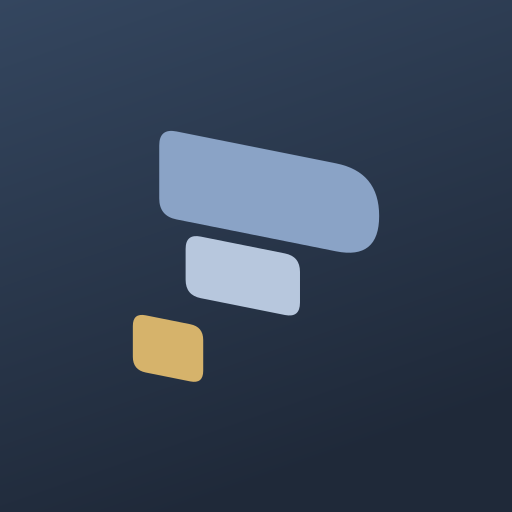
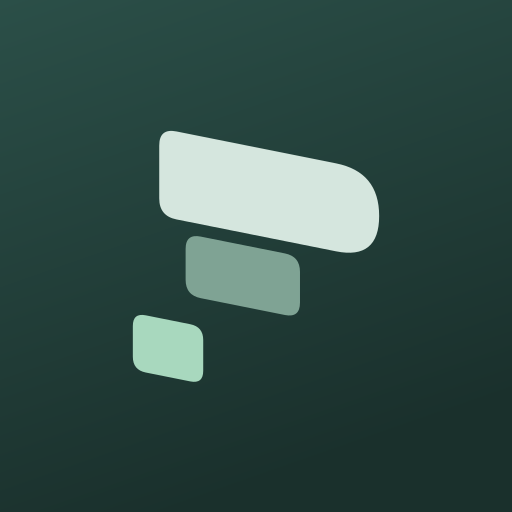
Green colours, as in the app
The page leaves blue and gold for the app's greens: a deep spruce to act, sage for logged time
and a pale green for time that is sure, on an off-white page with graphite ink, and a dim
graphite in the dark. The icons and the picture for shared links follow.

Claude-Session: https://claude.ai/code/session_01PKkv8NjNLMGLj8BPouAukG

Changed region(s): [[0.3125, 0.25, 0.75, 0.625], [0.25, 0.5938, 0.4062, 0.75]]

diff --git a/index.html b/index.html
@@ -9,8 +9,8 @@
 <link rel="icon" href="favicon.svg" type="image/svg+xml">
 <link rel="apple-touch-icon" href="apple-touch-icon.png">
 <link rel="manifest" href="site.webmanifest">
-<meta name="theme-color" content="#f7f8f9" media="(prefers-color-scheme: light)">
-<meta name="theme-color" content="#1c2029" media="(prefers-color-scheme: dark)">
+<meta name="theme-color" content="#f6f6f5" media="(prefers-color-scheme: light)">
+<meta name="theme-color" content="#1d201f" media="(prefers-color-scheme: dark)">
 <meta property="og:title" content="Tidemark">
 <meta property="og:description" content="Your workday leaves a mark. Tidemark writes it down.">
 <meta property="og:image" content="https://tidemark.burkaya.com/og-image.png">
@@ -29,35 +29,35 @@
   })();
 </script>
 <style>
-  /* Tidemark's colours, as in the app: muted, below full contrast so that they are easy on
-     the eyes. The logo's slate blue acts and draws time, its brass is what is logged; the rest
-     is slate ink on an off-white page. Sora (the wordmark's face) for headings and figures,
-     IBM Plex Sans for text. */
+  /* Tidemark's colours, as in the app: greens, muted and below full contrast so that they are
+     easy on the eyes. A deep spruce acts; time settles from a pale green (sure) to sage
+     (logged), the mark a day leaves; the rest is graphite ink on an off-white page. Sora (the
+     wordmark's face) for headings and figures, IBM Plex Sans for text. */
   :root {
-    --paper: #f7f8f9;
-    --band: #eef0f3;          /* a section of its own */
+    --paper: #f6f6f5;
+    --band: #ededec;          /* a section of its own */
     --surface: #ffffff;
-    --ink: #263042;
-    --ink-2: #5d6676;
-    --ink-3: #8b929e;
-    --line: #e3e6ea;
-    --line-strong: #cfd4db;
-    --accent: #3b5b86;
-    --accent-fill: #3d5d89;
+    --ink: #2c2f31;
+    --ink-2: #62686a;
+    --ink-3: #929799;
+    --line: #e3e5e3;
+    --line-strong: #cfd3d0;
+    --accent: #2f5e55;
+    --accent-fill: #2f5e55;
     --accent-ink: #ffffff;
-    --accent-soft: #e7ecf3;
-    --flow: #a3b8d8;
-    --mark: #d2ae66;
-    --mark-edge: #b08a40;
-    --mark-ink: #765720;
-    --mark-soft: #f3ebda;
-    --deep: #232b38;          /* the privacy band, dark in both themes */
-    --deep-text: #dde2ea;
-    --deep-muted: #a3aab6;
-    --deep-line: #343d4b;
-    --win-side: #eef0f3;      /* the app's side, in the picture of it */
-    --shadow-win: 0 1px 2px rgb(38 48 66 / 6%), 0 24px 60px rgb(38 48 66 / 12%);
-    --logo-1: #3b5b86; --logo-2: #7f9bc2; --logo-3: #d2ae66;
+    --accent-soft: #e4eeeb;
+    --flow: #c6ddd2;
+    --mark: #84ad97;
+    --mark-edge: #5c8a71;
+    --mark-ink: #3d6a52;
+    --mark-soft: #e2eee7;
+    --deep: #26302d;          /* the privacy band, dark in both themes */
+    --deep-text: #dfe4e2;
+    --deep-muted: #a3aca8;
+    --deep-line: #36413d;
+    --win-side: #ededec;      /* the app's side, in the picture of it */
+    --shadow-win: 0 1px 2px rgb(44 47 49 / 6%), 0 24px 60px rgb(44 47 49 / 12%);
+    --logo-1: #2f5e55; --logo-2: #8e9e98; --logo-3: #84ad97;
     --show-moon: block; --show-sun: none;
     --text: "IBM Plex Sans", ui-sans-serif, system-ui, sans-serif;
     --display: "Sora", "IBM Plex Sans", ui-sans-serif, system-ui, sans-serif;
@@ -66,31 +66,31 @@
   }
   @media (prefers-color-scheme: dark) {
     :root:not([data-theme="light"]) {
-      --paper: #1c2029; --band: #191c24; --surface: #21252e;
-      --ink: #d4d8df; --ink-2: #9aa1ad; --ink-3: #6f7684;
-      --line: #2b303a; --line-strong: #3a404c;
-      --accent: #93a9c9; --accent-fill: #4b6690; --accent-ink: #f3f5f8; --accent-soft: #26303f;
-      --flow: #4f6585;
-      --mark: #c7a35f; --mark-edge: #c7a35f; --mark-ink: #d2b678; --mark-soft: #2c2920;
-      --deep: #14171d; --deep-line: #262b34;
-      --win-side: #171a21;
+      --paper: #1d201f; --band: #1a1d1c; --surface: #222625;
+      --ink: #d6dad8; --ink-2: #9ca3a0; --ink-3: #6f7774;
+      --line: #2c3130; --line-strong: #3b4140;
+      --accent: #8fbfb0; --accent-fill: #3c7366; --accent-ink: #f2f6f4; --accent-soft: #233430;
+      --flow: #3f5c51;
+      --mark: #86b09b; --mark-edge: #86b09b; --mark-ink: #a2c8b4; --mark-soft: #24302b;
+      --deep: #151817; --deep-line: #272c2a;
+      --win-side: #171a19;
       --shadow-win: 0 1px 2px rgb(0 0 0 / 25%), 0 24px 60px rgb(0 0 0 / 40%);
-      --logo-1: #8aa3c6; --logo-2: #b7c7dd; --logo-3: #c7a35f;
+      --logo-1: #d5e5de; --logo-2: #7d8e88; --logo-3: #86b09b;
       --show-moon: none; --show-sun: block;
       color-scheme: dark;
     }
   }
   :root[data-theme="dark"] {
-    --paper: #1c2029; --band: #191c24; --surface: #21252e;
-    --ink: #d4d8df; --ink-2: #9aa1ad; --ink-3: #6f7684;
-    --line: #2b303a; --line-strong: #3a404c;
-    --accent: #93a9c9; --accent-fill: #4b6690; --accent-ink: #f3f5f8; --accent-soft: #26303f;
-    --flow: #4f6585;
-    --mark: #c7a35f; --mark-edge: #c7a35f; --mark-ink: #d2b678; --mark-soft: #2c2920;
-    --deep: #14171d; --deep-line: #262b34;
-    --win-side: #171a21;
+    --paper: #1d201f; --band: #1a1d1c; --surface: #222625;
+    --ink: #d6dad8; --ink-2: #9ca3a0; --ink-3: #6f7774;
+    --line: #2c3130; --line-strong: #3b4140;
+    --accent: #8fbfb0; --accent-fill: #3c7366; --accent-ink: #f2f6f4; --accent-soft: #233430;
+    --flow: #3f5c51;
+    --mark: #86b09b; --mark-edge: #86b09b; --mark-ink: #a2c8b4; --mark-soft: #24302b;
+    --deep: #151817; --deep-line: #272c2a;
+    --win-side: #171a19;
     --shadow-win: 0 1px 2px rgb(0 0 0 / 25%), 0 24px 60px rgb(0 0 0 / 40%);
-    --logo-1: #8aa3c6; --logo-2: #b7c7dd; --logo-3: #c7a35f;
+    --logo-1: #d5e5de; --logo-2: #7d8e88; --logo-3: #86b09b;
     --show-moon: none; --show-sun: block;
     color-scheme: dark;
   }
@@ -215,7 +215,7 @@
   .steps li { counter-increment: step; position: relative; padding: 56px 40px 0 0; }
   .steps li::before { content: counter(step); position: absolute; top: 0; left: 0; display: grid; place-items: center; width: 34px; height: 34px; border-radius: 50%; background: var(--paper); border: 1.5px solid var(--line-strong); font: 600 14px var(--display); color: var(--ink); }
   .band .steps li::before { background: var(--band); }
-  .steps li:last-child::before { background: var(--mark); border-color: var(--mark); color: #263042; }
+  .steps li:last-child::before { background: var(--mark); border-color: var(--mark); color: #1f2a26; }
   .steps h3 { margin: 0 0 8px; font: 600 20px/1.3 var(--display); letter-spacing: -0.015em; }
   .steps p { color: var(--ink-2); }
 
@@ -396,8 +396,8 @@
           </div>
         </div>
       </div>
-      <figcaption>A day in Tidemark: logged time in gold, what it is sure of in blue, and the
-        sessions it asks you about. Time you skip stays out.</figcaption>
+      <figcaption>A day in Tidemark: logged time in sage, what it is sure of in pale green, and
+        the sessions it asks you about. Time you skip stays out.</figcaption>
     </figure>
   </div>
 

diff --git a/README.md b/README.md
@@ -8,8 +8,8 @@ workflow; the Download section links the latest version's files, and the app rea
 One static page, `index.html`, with its styles and script inline, like
 [canya-site](https://github.com/burak-kayaa/canya-site). Open it in a browser to work on it.
 
-The page looks like the app: the logo's blue to act and its gold for what is logged, on quiet
-ground, with Sora for headings and IBM Plex Sans for text (from Google Fonts). The hero is a
+The page looks like the app: muted greens on quiet ground (a deep spruce to act, sage for what
+is logged), with Sora for headings and IBM Plex Sans for text (from Google Fonts). The hero is a
 picture of the app's review of a sample day, drawn in HTML rather than a screenshot; its strip
 of the day's hours fills in when the page loads (not with reduced motion). Below it, each
 section is a band of its own: how it works, what it does (with a sample of a sheet being filled
